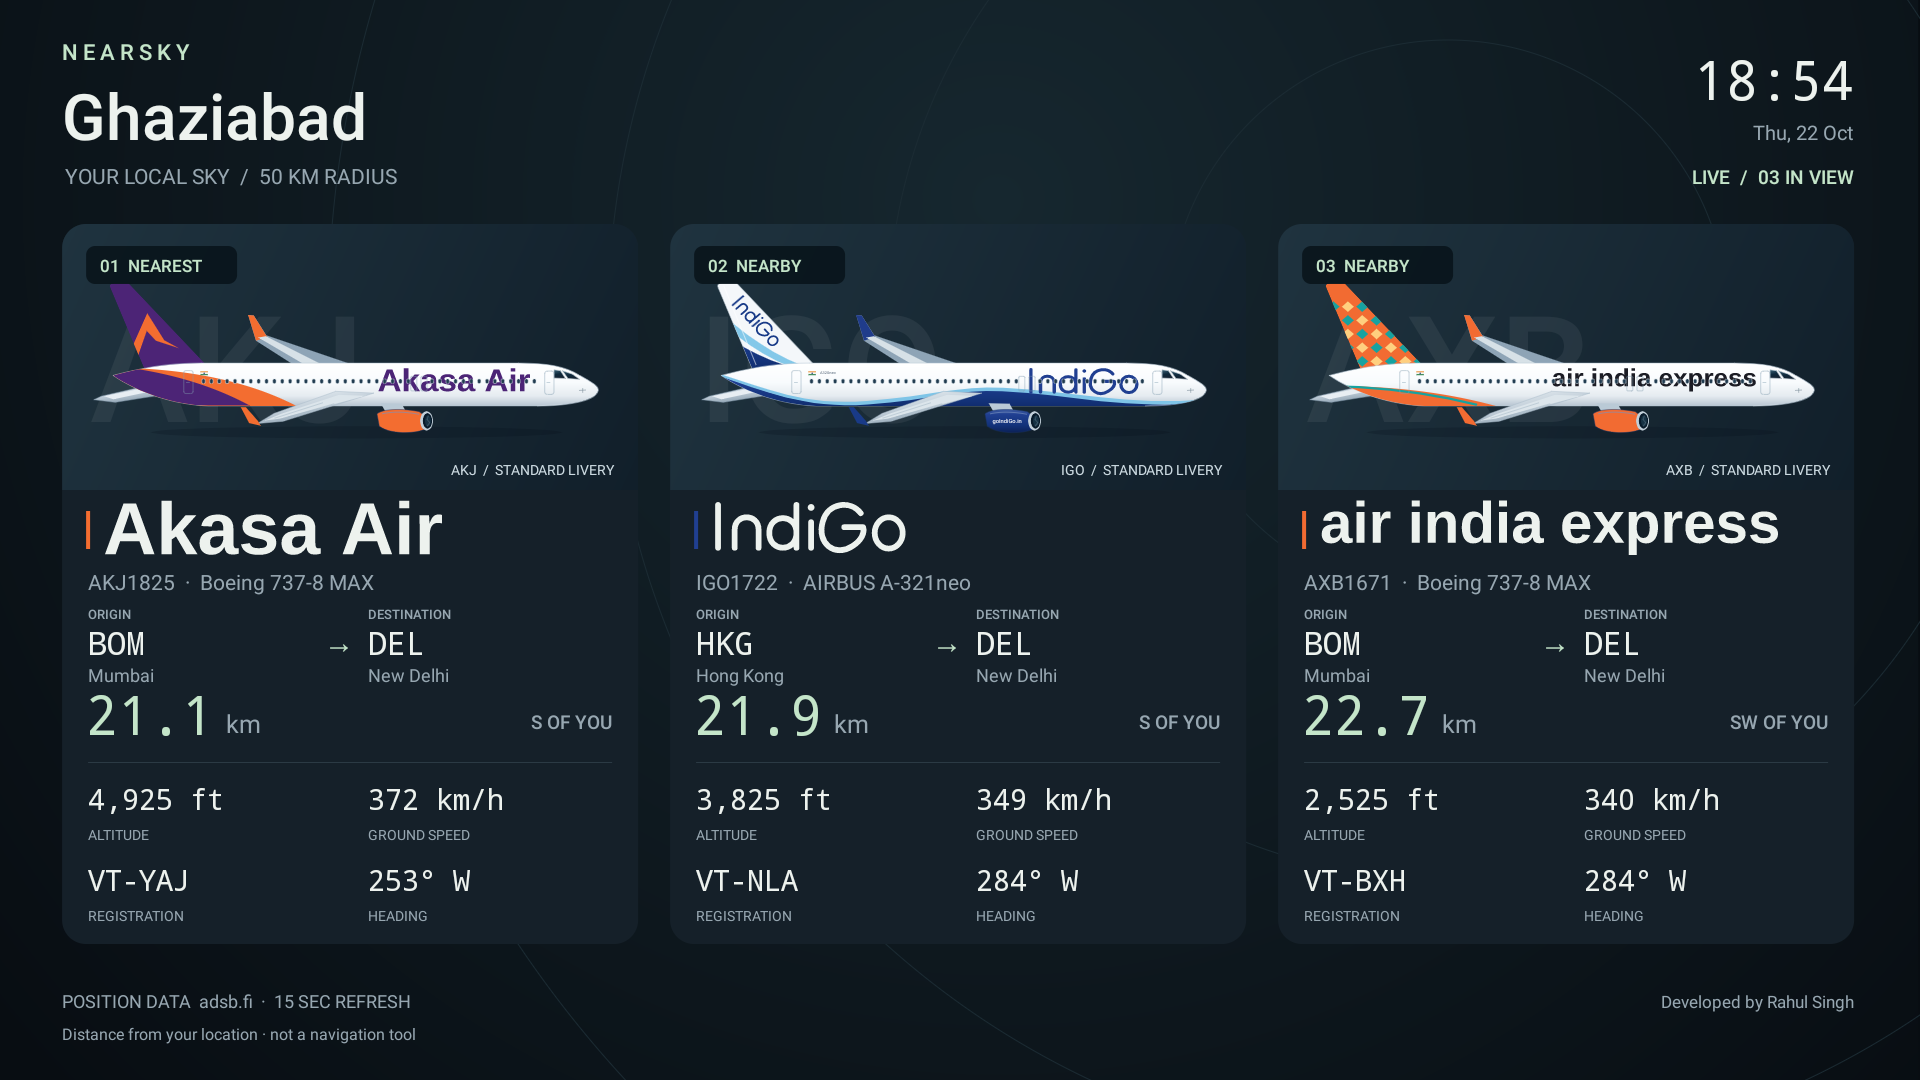
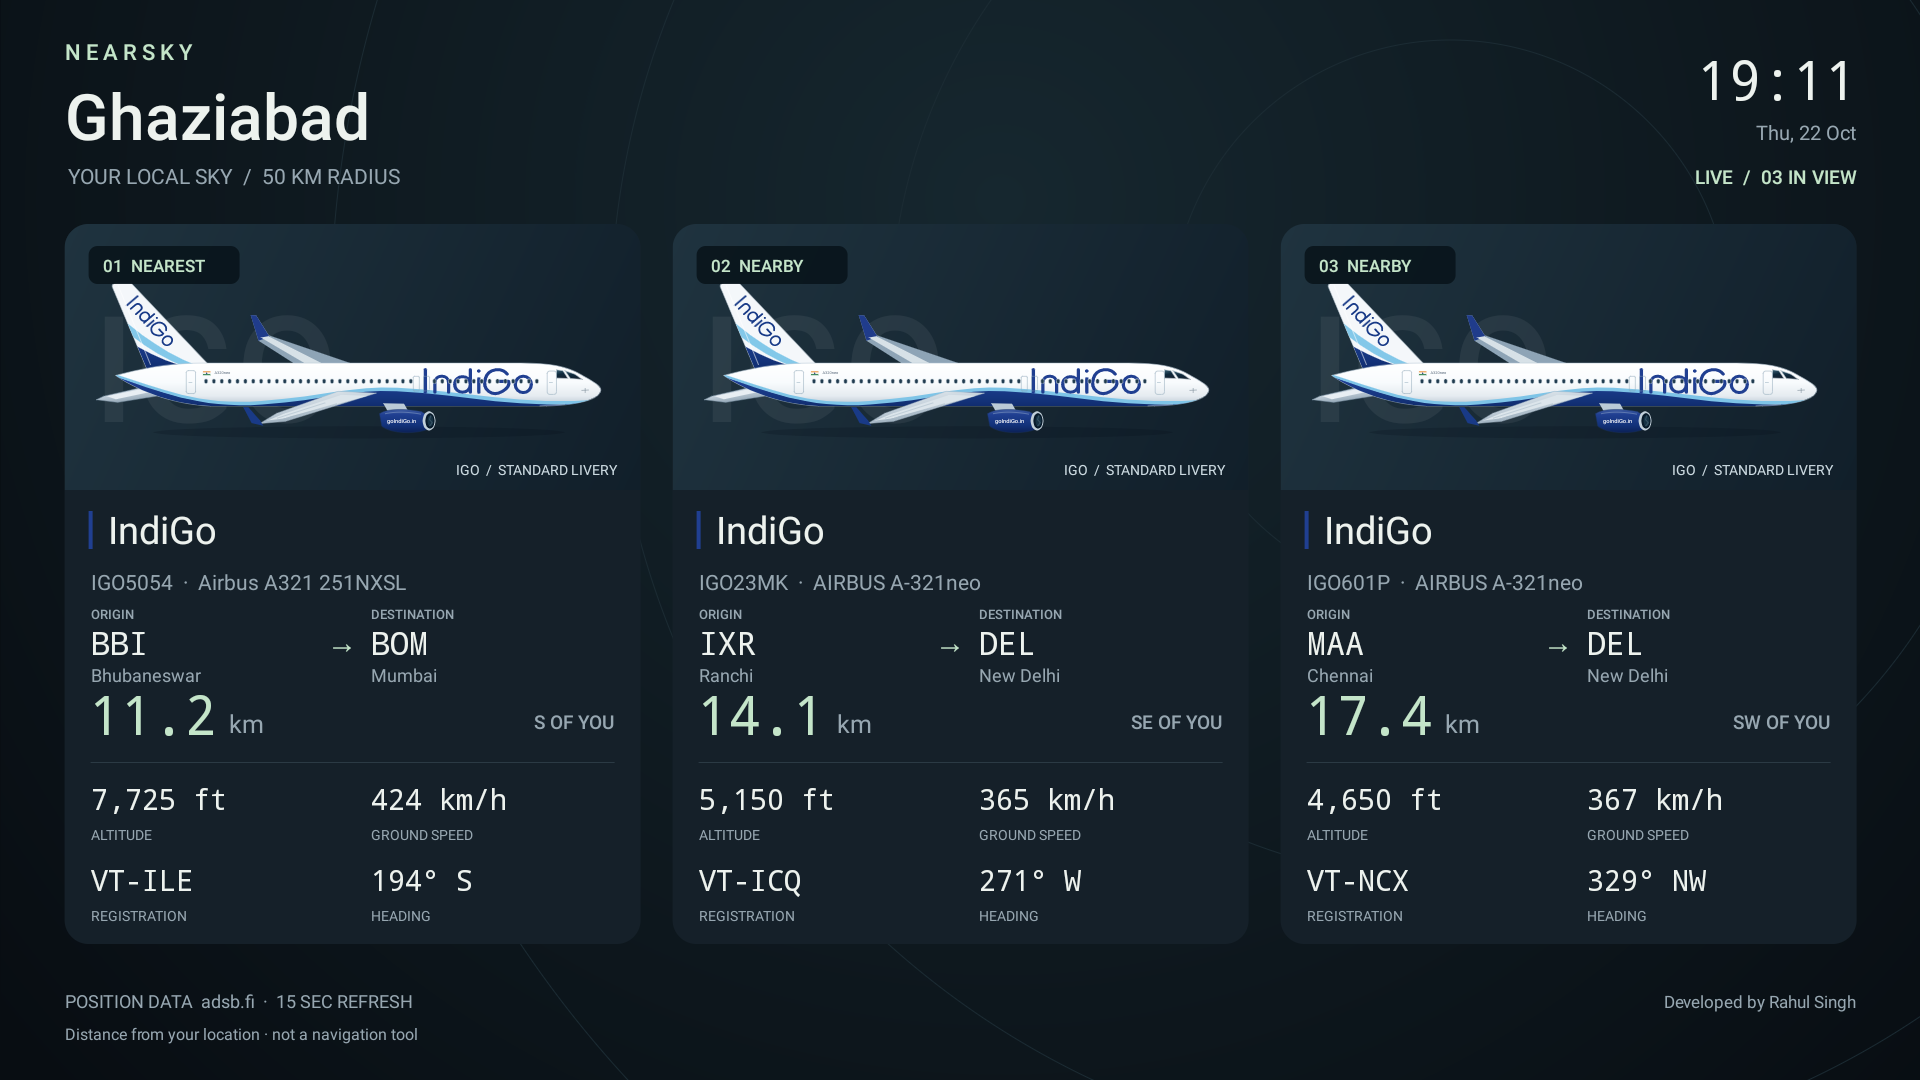
Use smaller plain airline names below the livery images in 1.4.1

diff --git a/app/src/main/java/com/nearsky/tv/FlightView.java b/app/src/main/java/com/nearsky/tv/FlightView.java
@@ -106,8 +106,7 @@ public final class FlightView extends View {
         if(isPhoto)textRight(c,"Photo: Airport-data.com via adsbdb",x+w-24,456,12,INK,regular);
         c.restore();
         p.setColor(accent);c.drawRect(x+24,511,x+28,549,p);
-        if(!liveries.drawBrand(c,code,new RectF(x+43,500,x+w-26,556)))
-            fit(c,airlineName.isEmpty()?f.title():airlineName,x+43,548,44,w-70,INK,bold);
+        fit(c,airlineName.isEmpty()?f.title():airlineName,x+43,544,38,w-70,INK,regular);
         String model=photo!=null&&!photo.aircraft.isEmpty()?photo.aircraft:f.description.isEmpty()?f.type.isEmpty()?"Aircraft type unavailable":f.type:f.description;
         fit(c,(airlineName.isEmpty()?"":f.title()+"  ·  ")+model,x+26,590,21,w-52,MUTED,regular);
         RouteRepository.Result route=demo||routes==null?null:routes.get(f.callsign,this::invalidate);

diff --git a/README.md b/README.md
@@ -1,18 +1,18 @@
 # NearSky for Android TV / Google TV
 
-Developed by **Rahul Singh** · Current version: **1.4**
+Developed by **Rahul Singh** · Current version: **1.4.1**
 
 **[Step-by-step how-to guide](docs/HOW_TO.md)** — build from source, install on a TV, configure location and radius, enable the screensaver, customize liveries and troubleshoot.
 
 A native Android screensaver showing up to three nearby airborne aircraft in three large cards across the full width of a horizontal TV. Defaults to **Ghaziabad (28.6692, 77.4538), within 50 km**. Android 8.0 or newer. No account, GPS permission, API key, backend or subscription required for the current personal-use data sources.
 
-Each card shows a detailed SVG aircraft illustration with enlarged airline lettering and a larger outlined brand heading. **24 airlines have hand-redrawn standard-livery schemes**, including the approved IndiGo design, Air India, SpiceJet, Akasa Air, Air India Express, the major international carriers listed in the [livery catalogue](docs/LIVERIES.md), and UPS/FedEx cargo carriers. Other operator codes keep a labeled concept design. These are representative airline illustrations on a shared airliner silhouette, not exact fleet/type drawings or a guarantee of the paint currently on the reported aircraft. English wordmarks and simplified tail motifs are approximations, not official brand master assets.
+Each card shows a detailed SVG aircraft illustration with enlarged airline lettering on the aircraft and a smaller, plain sans-serif airline name below the image. **24 airlines have hand-redrawn standard-livery schemes**, including the approved IndiGo design, Air India, SpiceJet, Akasa Air, Air India Express, the major international carriers listed in the [livery catalogue](docs/LIVERIES.md), and UPS/FedEx cargo carriers. Other operator codes keep a labeled concept design. These are representative airline illustrations on a shared airliner silhouette, not exact fleet/type drawings or a guarantee of the paint currently on the reported aircraft. English wordmarks and simplified tail motifs are approximations, not official brand master assets.
 
 Cards also show callsign, aircraft model, origin/destination airport codes with city names, registration, distance, direction from you, altitude, ground speed and heading. Optional reference photos matched to the aircraft hex identifier replace the SVG when available. With fewer than three aircraft in range, remaining slots show an empty state.
 
 ## Screenshots
 
-Version 1.4 adds standard airline paint schemes and larger outlined names. **[See all 24 liveries](docs/LIVERIES.md)** or **[browse the TV screenshots](docs/SCREENSHOTS.md)** for settings, city presets, sample mode, photos and setup. Earlier settings captures remain from version 1.3.1.
+Version 1.4 adds standard airline paint schemes; version 1.4.1 uses smaller, plain sans-serif card names. **[See all 24 liveries](docs/LIVERIES.md)** or **[browse the TV screenshots](docs/SCREENSHOTS.md)** for settings, city presets, sample mode, photos and setup. Earlier settings captures remain from version 1.3.1.
 
 ![Live NearSky screensaver showing three nearby flights, original liveries, reference routes and flight details](docs/screenshots/standard-liveries-live.png)
 
@@ -124,7 +124,7 @@ Version 1.4 applies the approved IndiGo illustration style to **24 airlines**: I
 
 - Airline colours, larger English lettering and simplified tail motifs follow representative standard schemes. Air India Express tail artwork varies; fleets may have transitional, leased or special paint. There is no per-registration livery matching.
 - The approved IndiGo paths are preserved. Other English lettering is outlined using open-source Liberation fonts, with serif or sans-serif styling and selected italic/mixed-colour lettering. These are redrawn approximations; official wordmark master files and Arabic lettering are not supplied.
-- `app/src/main/assets/liveries/CODE.svg` contains each editable 1200 × 440 transparent aircraft illustration. `wordmarks/CODE.svg` contains the corresponding scalable card heading. Outlines keep typography consistent across TVs without downloading fonts.
+- `app/src/main/assets/liveries/CODE.svg` contains each editable 1200 × 440 transparent aircraft illustration. `wordmarks/CODE.svg` contains the corresponding brand outline reference. The live card heading uses a simple 38px sans-serif font (at the 1920 × 1080 design scale). Outlines keep typography consistent across TVs without downloading fonts.
 - `livery-catalogue.json` records airline identifiers, colours, references and limitations. [LIVERIES.md](docs/LIVERIES.md) lists the catalogue and regeneration instructions.
 - Unknown codes retain a deterministic original concept illustration and the explicit CONCEPT LIVERY label. Registrations such as `N123AB` and `VT-ANB` are not interpreted as airline codes.
 - Airline names for the 24 bundled carriers are available offline; exact-code adsbdb lookups extend metadata for other carriers. An aircraft's registered owner is never substituted for an airline name.

diff --git a/docs/LIVERIES.md b/docs/LIVERIES.md
@@ -1,6 +1,6 @@
 # Standard airline livery catalogue
 
-NearSky 1.4 includes **24 hand-redrawn standard schemes**, following the approved IndiGo illustration style. All have larger English lettering on the fuselage and scalable outlined headings on their flight cards.
+NearSky 1.4 includes **24 hand-redrawn standard schemes**, following the approved IndiGo illustration style. All have larger English lettering on the fuselage. Version 1.4.1 uses a smaller, plain sans-serif airline name below each image; airline-style lettering stays on the aircraft.
 
 The drawings use a shared representative airliner silhouette. They do not identify an aircraft's actual paint, exact aircraft type, transitional branding, wet lease or special scheme. English lettering and tail marks are simplified redraws, not official brand master files; Arabic lettering is not supplied. Air India Express tail textiles vary; one illustrative pattern is used. Korean Air uses the 2025 blue/KOREAN scheme. Lufthansa uses its standard white-body/deep-blue-tail scheme rather than the 2026 anniversary special.
 
@@ -35,7 +35,7 @@ The drawings use a shared representative airliner silhouette. They do not identi
 
 ## Artwork files
 
-`app/src/main/assets/liveries/CODE.svg`: editable transparent 1200 × 440 aircraft art. `app/src/main/assets/wordmarks/CODE.svg`: English heading outlines. `livery-catalogue.json`: identifiers, palette, references and limitations. There are no downloaded images, scripts, external fonts or runtime artwork requests in these assets.
+`app/src/main/assets/liveries/CODE.svg`: editable transparent 1200 × 440 aircraft art. `app/src/main/assets/wordmarks/CODE.svg`: English brand outline references (not used for the live card names). `livery-catalogue.json`: identifiers, palette, references and limitations. There are no downloaded images, scripts, external fonts or runtime artwork requests in these assets.
 
 Rebuild with Python 3 and JDK 17:
 

diff --git a/docs/SCREENSHOTS.md b/docs/SCREENSHOTS.md
@@ -1,14 +1,14 @@
 # NearSky screenshot gallery
 
-Actual, unedited 1920 × 1080 captures from a TCL Android TV, taken on 22 October 2026. The new livery screens below are from **1.4**; the remaining settings/feature captures document **1.3.1**. The live screens show real provider responses at capture time; routes are reference data and may be outdated. Sample flights are explicitly labeled DEMO. No mockup screens are included.
+Actual, unedited 1920 × 1080 captures from a TCL Android TV, taken on 22 October 2026. The live livery screen is from **1.4.1** (smaller simple card names), and the livery demo is from **1.4**; the remaining settings/feature captures document **1.3.1**. The live screens show real provider responses at capture time; routes are reference data and may be outdated. Sample flights are explicitly labeled DEMO. No mockup screens are included.
 
 [Back to the README](../README.md) · [Build and setup guide](HOW_TO.md)
 
-## Version 1.4 — standard airline liveries and larger names
+## Versions 1.4 / 1.4.1 — standard liveries and simple card names
 
-The live system screensaver uses the new standard schemes and outlined headings. The sample capture clearly labels its fictional positions and does not fetch routes for its sample callsigns. See the [24-airline catalogue](LIVERIES.md) for all designs and references.
+The live system screensaver uses standard schemes and smaller plain sans-serif names below each image. The older 1.4 sample capture shows the previous branded headings. The sample capture clearly labels its fictional positions and does not fetch routes for its sample callsigns. See the [24-airline catalogue](LIVERIES.md) for all designs and references.
 
-![Version 1.4 live screensaver](screenshots/standard-liveries-live.png)
+![Version 1.4.1 live screensaver](screenshots/standard-liveries-live.png)
 
 ![Version 1.4 clearly labeled sample screen](screenshots/standard-liveries-demo.png)
 

diff --git a/docs/HOW_TO.md b/docs/HOW_TO.md
@@ -1,6 +1,6 @@
 # Build, install and use NearSky
 
-NearSky is a native Android TV / Google TV screensaver. Version 1.4 shows the three nearest airborne aircraft across a horizontal TV, with SVG airline illustrations, airline names, flight details, and reference origin/destination routes. The bottom-right credit reads **Developed by Rahul Singh**.
+NearSky is a native Android TV / Google TV screensaver. Version 1.4.1 shows the three nearest airborne aircraft across a horizontal TV, with SVG airline illustrations, airline names, flight details, and reference origin/destination routes. The bottom-right credit reads **Developed by Rahul Singh**.
 
 See the [screenshot gallery](SCREENSHOTS.md) for the live display, menus and settings on a real TCL TV.
 
@@ -99,7 +99,7 @@ Some manufacturers hide third-party screensaver selection. The [README's screens
 
 - Change the footer string in `app/src/main/java/com/nearsky/tv/FlightView.java`.
 - Edit an aircraft SVG in `app/src/main/assets/liveries/`, or add an uppercase three-letter `CODE.svg` there. Preserve its 1200 × 440 viewBox. Standard-livery assets use fixed outlined lettering; generic concept fallbacks use the `airline-name` text element for dynamic names.
-- Edit `tools/generate-liveries.py` and run it with Python 3 / JDK 17 to regenerate the 24 standard schemes and heading wordmarks. Edit `LiveryDesign.java` for unbundled concept fallbacks.
+- Edit `tools/generate-liveries.py` and run it with Python 3 / JDK 17 to regenerate the 24 standard schemes and brand outline references. Live card names use the normal font in `FlightView.java`. Edit `LiveryDesign.java` for unbundled concept fallbacks.
 - Generate the complete AAA–ZZZ SVG identifier pack with JDK 17:
 
 ```sh

diff --git a/VALIDATION.md b/VALIDATION.md
@@ -1,3 +1,9 @@
+# Version 1.4.1 validation — 22 October 2026
+
+- Card airline names use the normal sans-serif face at 38px in the 1920 × 1080 design instead of the large branded heading outlines. Aircraft SVG lettering and paint are unchanged.
+- `assembleDebug` passed and APK signature verified. Installed version code 7 / version name 1.4.1 on the TCL TV with saved preferences retained.
+- Visually inspected the real live display: IndiGo and Air India Express names fit clearly in the smaller simple font. No data or SVG logic changed; the previous 107 native assertions were not rerun for this cosmetic adjustment.
+
 # Version 1.4 validation — 22 October 2026
 
 - Applied the approved IndiGo artwork unchanged and added hand-redrawn standard schemes for 23 other carriers, with larger outlined English headings, carrier colours and simplified tail marks. Unknown codes retain labeled concept artwork. All illustrations use a representative shared airliner, not exact per-type geometry or per-registration paint.
